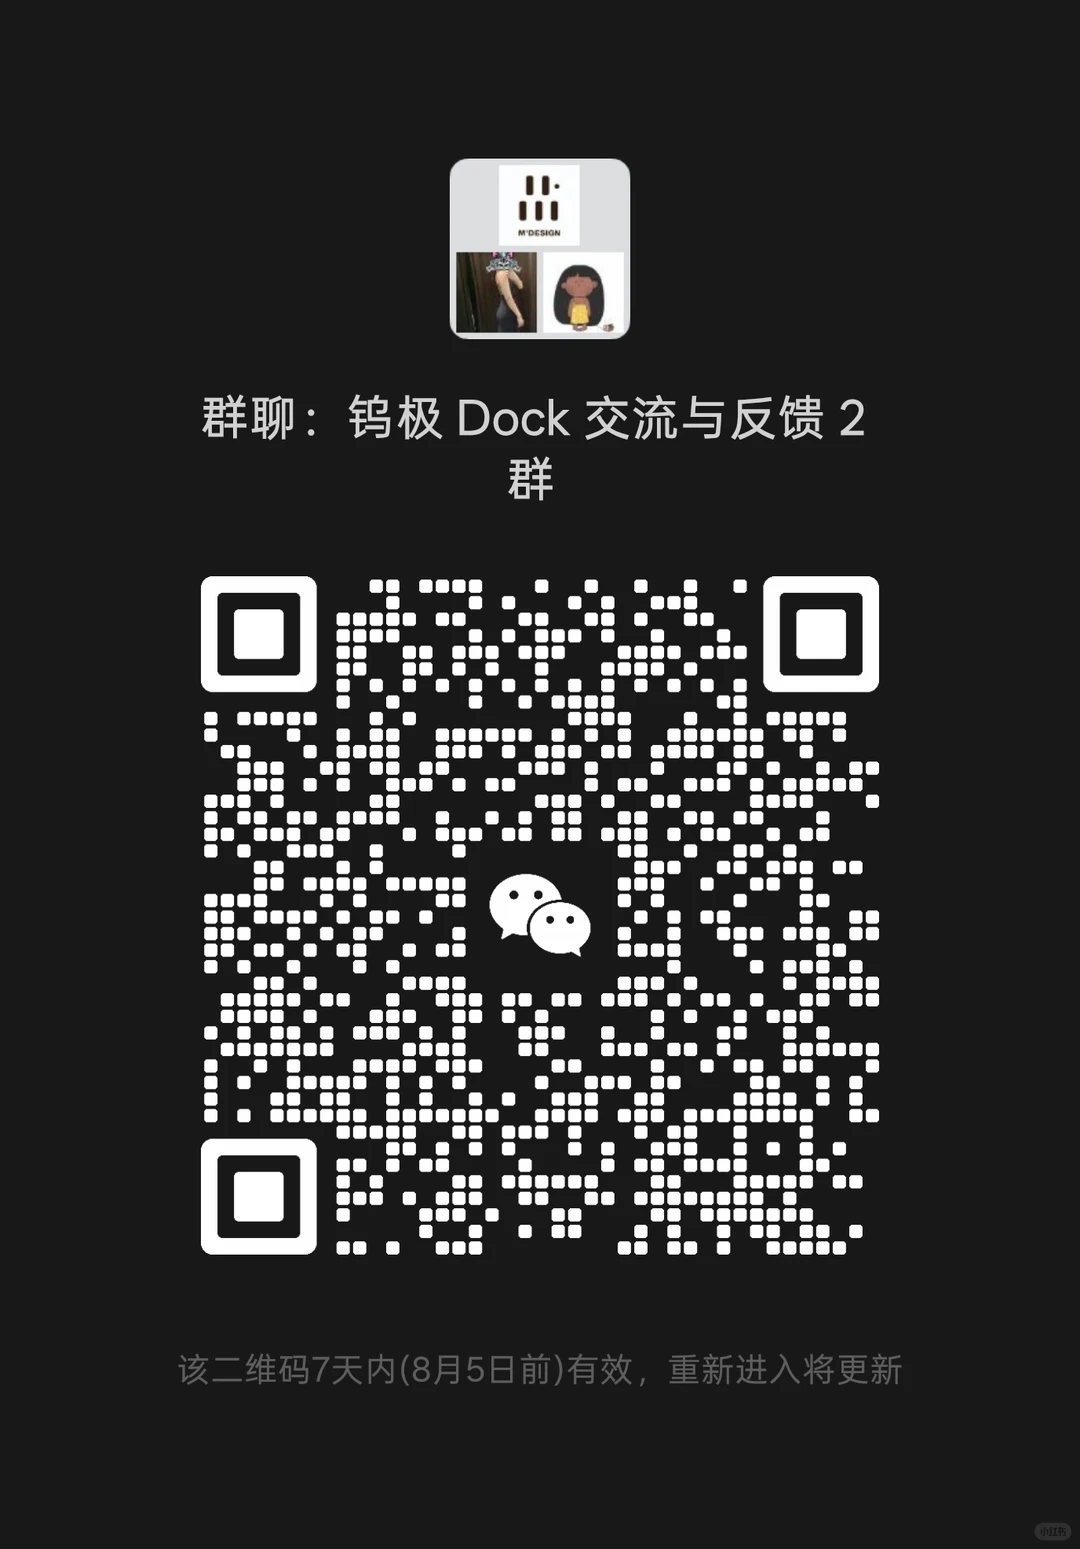
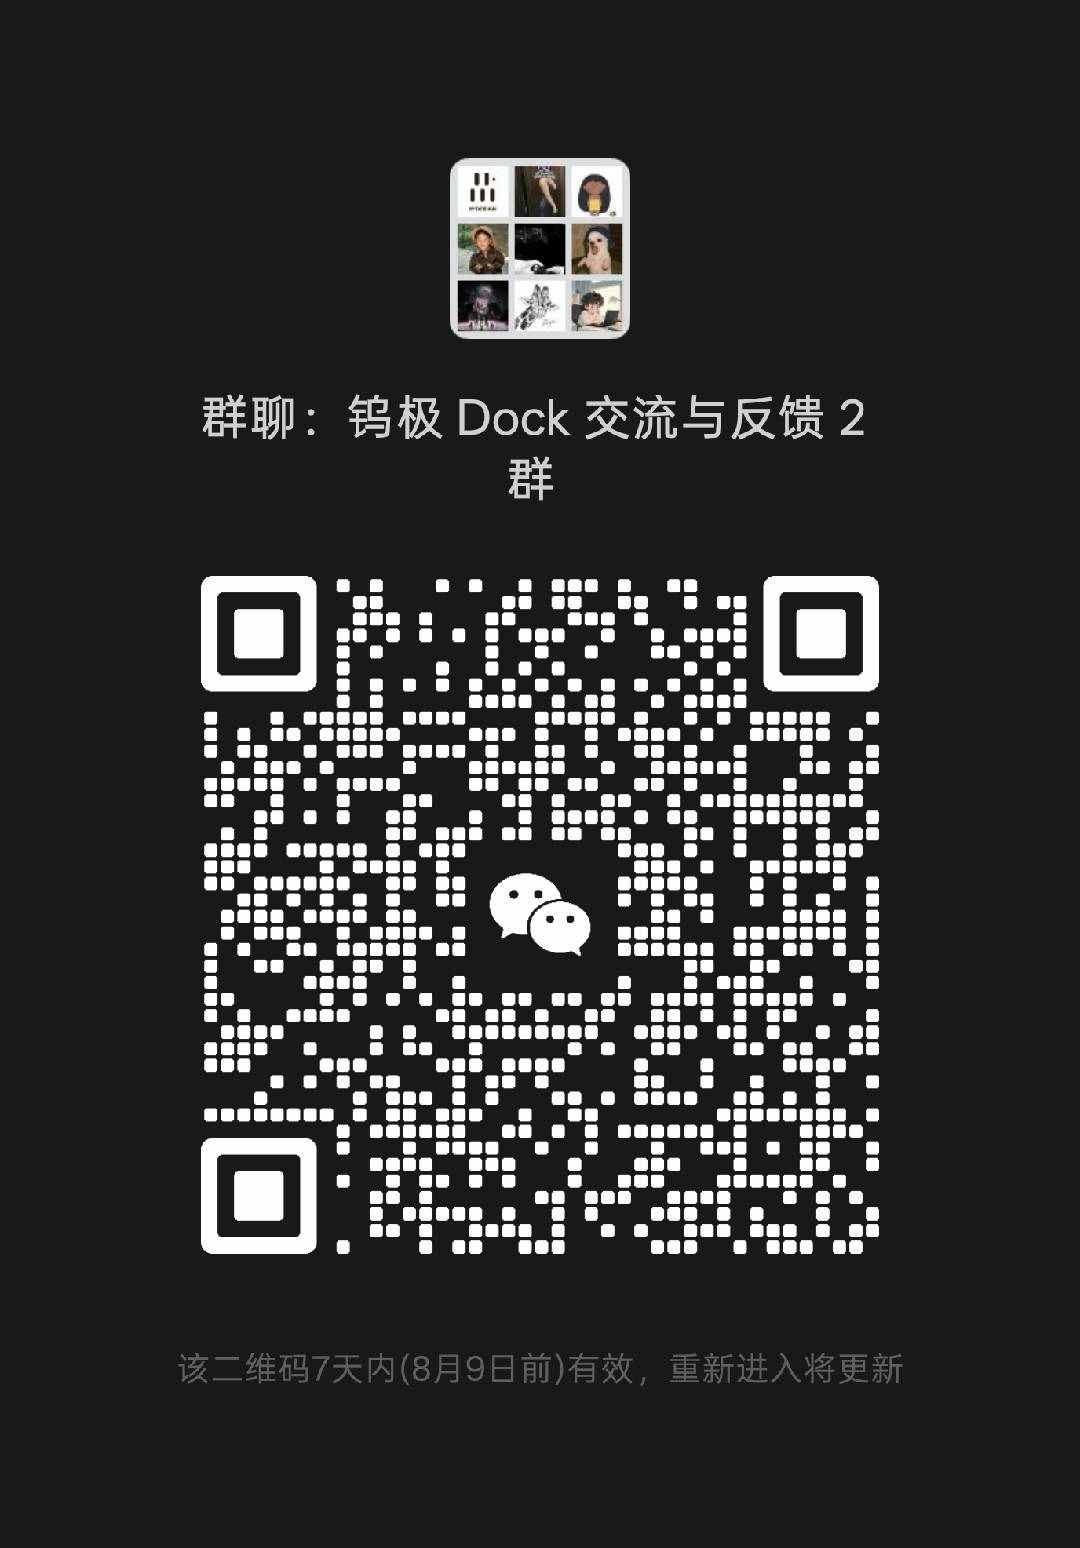
docs: 更新微信群二维码，英文 README 补上群入口
换新微信群邀请码（钨极 Dock 交流与反馈 2 群），并让英文 README
的 Community 段落也挂出二维码，方便英文读者进群反馈。

diff --git a/README.md b/README.md
@@ -135,6 +135,12 @@ This is an early public build (v0.3). Known limitations and what's next:
 
 ## Community
 
+**WeChat Group**
+
+<img src="assets/wechat-group.png" alt="Tungsten Edge WeChat group QR code" width="280" />
+
+The QR code is updated weekly. If it has expired, please leave a message in [Issues](https://github.com/moonbai-studio/tungsten-edge/issues) and I'll renew it promptly.
+
 Tungsten Edge recognizes and thanks the [LINUX DO](https://linux.do/) community for providing a place for discussion and feedback.
 
 ## License
